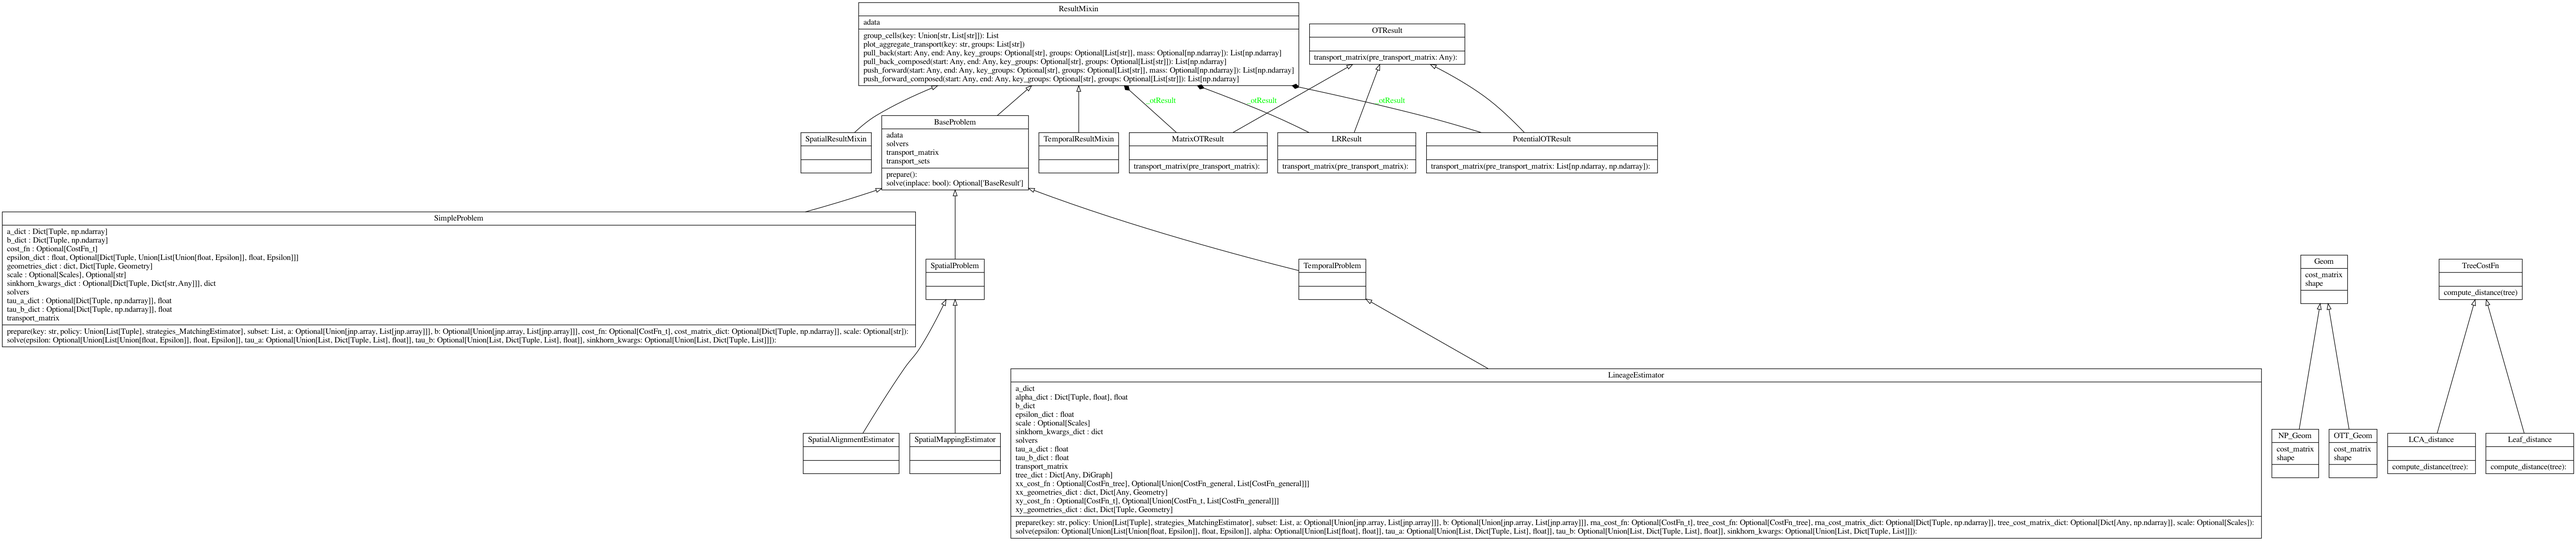
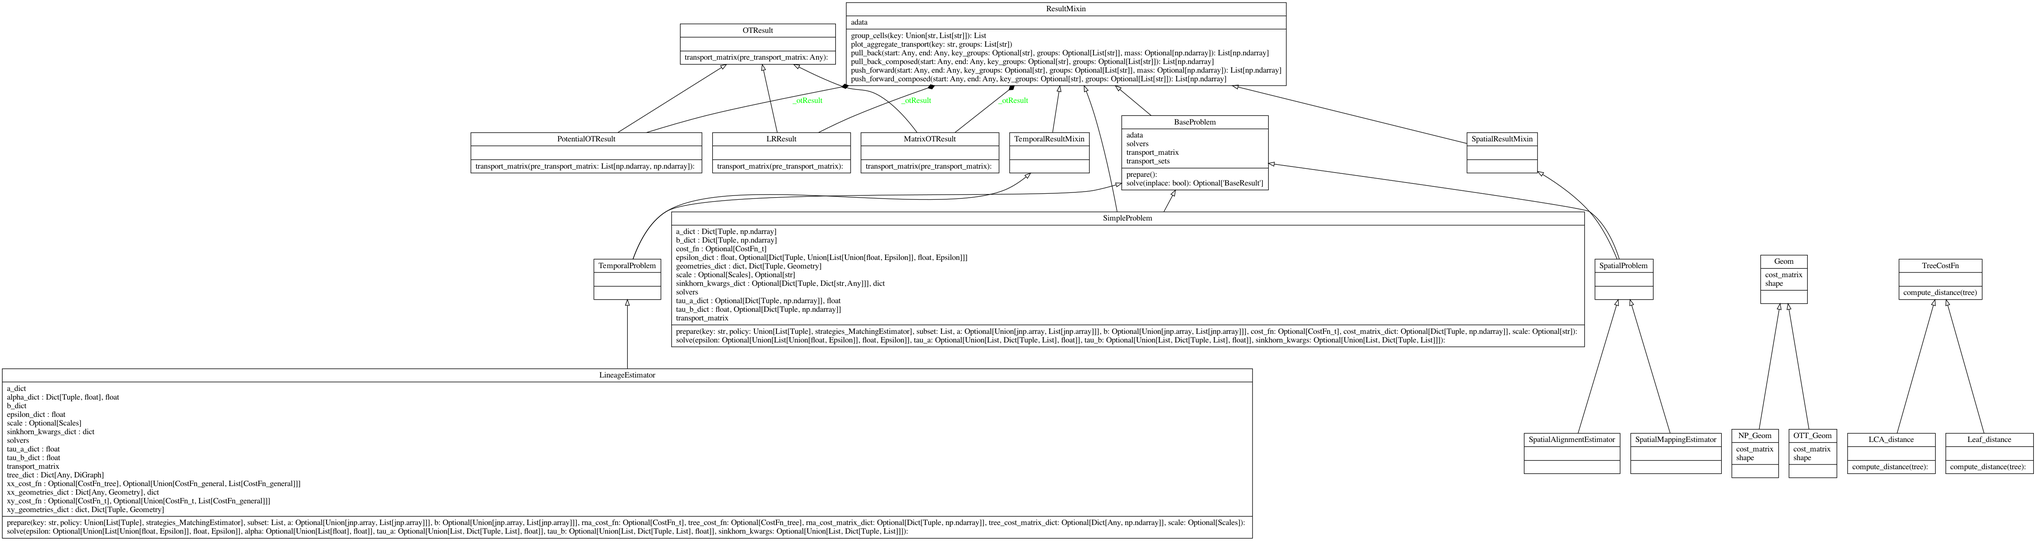
small update on class inheritances for draft

diff --git a/moscot/framework/problems/temporal_problem.py b/moscot/framework/problems/temporal_problem.py
@@ -24,6 +24,7 @@ from moscot.framework.utils.custom_costs import Leaf_distance
 from moscot.framework.problems.BaseProblem import BaseProblem
 from moscot.framework.settings import strategies_MatchingEstimator
 from moscot.framework.results._results import OTResult
+from moscot.framework.results._result_mixins import TemporalResultMixin
 
 CostFn_t = Union[CostFn, GWLoss]
 CostFn_tree = Union[Leaf_distance]
@@ -32,7 +33,7 @@ Scales = Union["mean", "meadian", "max"]
 
 
 
-class TemporalProblem(BaseProblem):
+class TemporalProblem(BaseProblem, TemporalResultMixin):
     """
     This class handles all OT problems revolving around temporal sc data
     """

diff --git a/moscot/framework/problems/simple_problem.py b/moscot/framework/problems/simple_problem.py
@@ -22,7 +22,7 @@ from moscot.framework.utils.custom_costs import Leaf_distance
 from moscot.framework.problems.BaseProblem import BaseProblem
 from moscot.framework.settings import strategies_MatchingEstimator
 from moscot.framework.results._results import OTResult
-
+from moscot.framework.results._result_mixins import ResultMixin
 
 CostFn_t = Union[CostFn, GWLoss]
 CostFn_tree = Union[Leaf_distance]
@@ -30,7 +30,7 @@ CostFn_general = Union[CostFn_t, CostFn_tree]
 Scales = Union["mean", "median", "max"]
 
 
-class SimpleProblem(BaseProblem):
+class SimpleProblem(BaseProblem, ResultMixin):
     """
     This estimator handles linear OT problems
     """

diff --git a/moscot/framework/problems/spatial_problem.py b/moscot/framework/problems/spatial_problem.py
@@ -6,7 +6,7 @@ from anndata import AnnData
 
 from moscot.framework.utils.custom_costs import Leaf_distance
 from moscot.framework.problems.BaseProblem import BaseProblem
-
+from moscot.framework.results._result_mixins import SpatialResultMixin
 CostFn_t = Union[CostFn, GWLoss]
 CostFn_tree = Union[Leaf_distance]
 CostFn_general = Union[CostFn_t, CostFn_tree]
@@ -14,7 +14,7 @@ Scales = Union["mean", "meadian", "max"]
 
 
 
-class SpatialProblem(BaseProblem):
+class SpatialProblem(BaseProblem, SpatialResultMixin):
     """ This estimator handles all OT problems related to spatial sc data """
 
 
